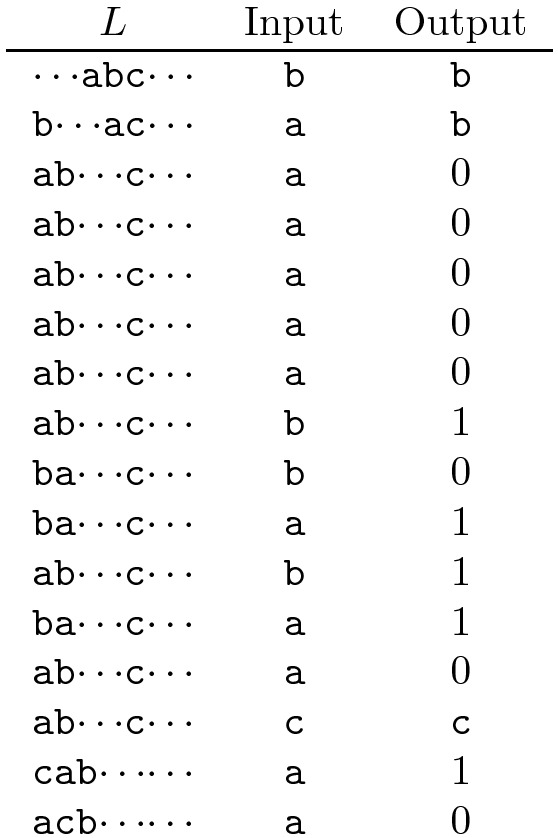
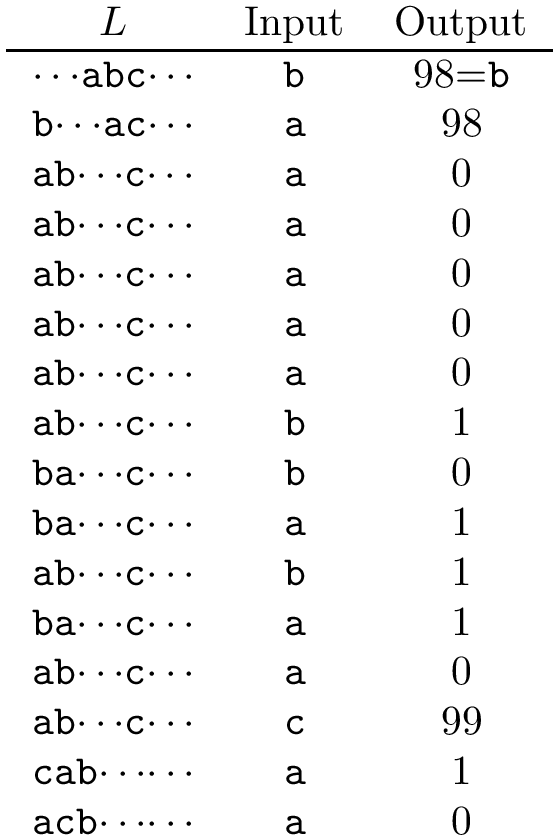
.

diff --git a/data/MTF_example.tex b/data/MTF_example.tex
@@ -4,8 +4,8 @@
 \begin{tabular}{ccc}
  $L$ & Input & Output \\
 \hline
-{\tt $\cdots$abc$\cdots$} & {\tt b} &  {\tt b}\\
-{\tt b$\cdots$ac$\cdots$} & {\tt a} &  {\tt b}\\
+{\tt $\cdots$abc$\cdots$} & {\tt b} & 98={\tt b}\\
+{\tt b$\cdots$ac$\cdots$} & {\tt a} &    98\\
 {\tt ab$\cdots$c$\cdots$} & {\tt a} &     0\\
 {\tt ab$\cdots$c$\cdots$} & {\tt a} &     0\\
 {\tt ab$\cdots$c$\cdots$} & {\tt a} &     0\\
@@ -17,7 +17,7 @@
 {\tt ab$\cdots$c$\cdots$} & {\tt b} &     1\\
 {\tt ba$\cdots$c$\cdots$} & {\tt a} &     1\\
 {\tt ab$\cdots$c$\cdots$} & {\tt a} &     0\\
-{\tt ab$\cdots$c$\cdots$} & {\tt c} &   {\tt c}\\
+{\tt ab$\cdots$c$\cdots$} & {\tt c} &    99\\
 {\tt cab$\cdots$$\cdots$} & {\tt a} &     1\\    
 {\tt acb$\cdots$$\cdots$} & {\tt a} &     0\\
 %{\tt acb$\cdots$$\cdots$} & {\tt b} &     1
